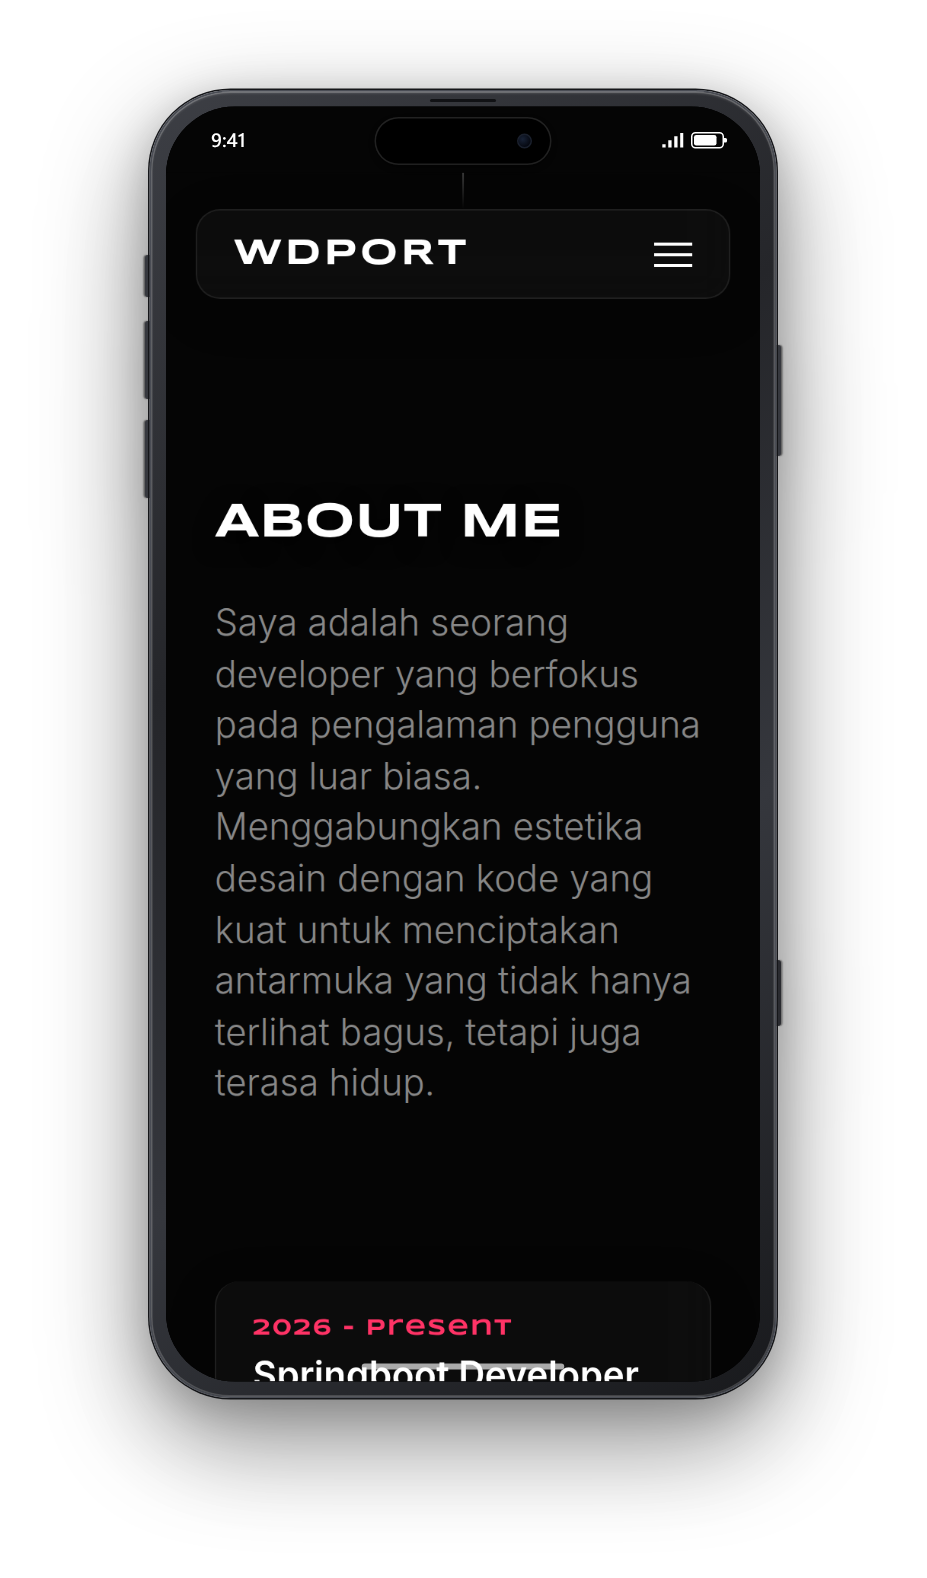
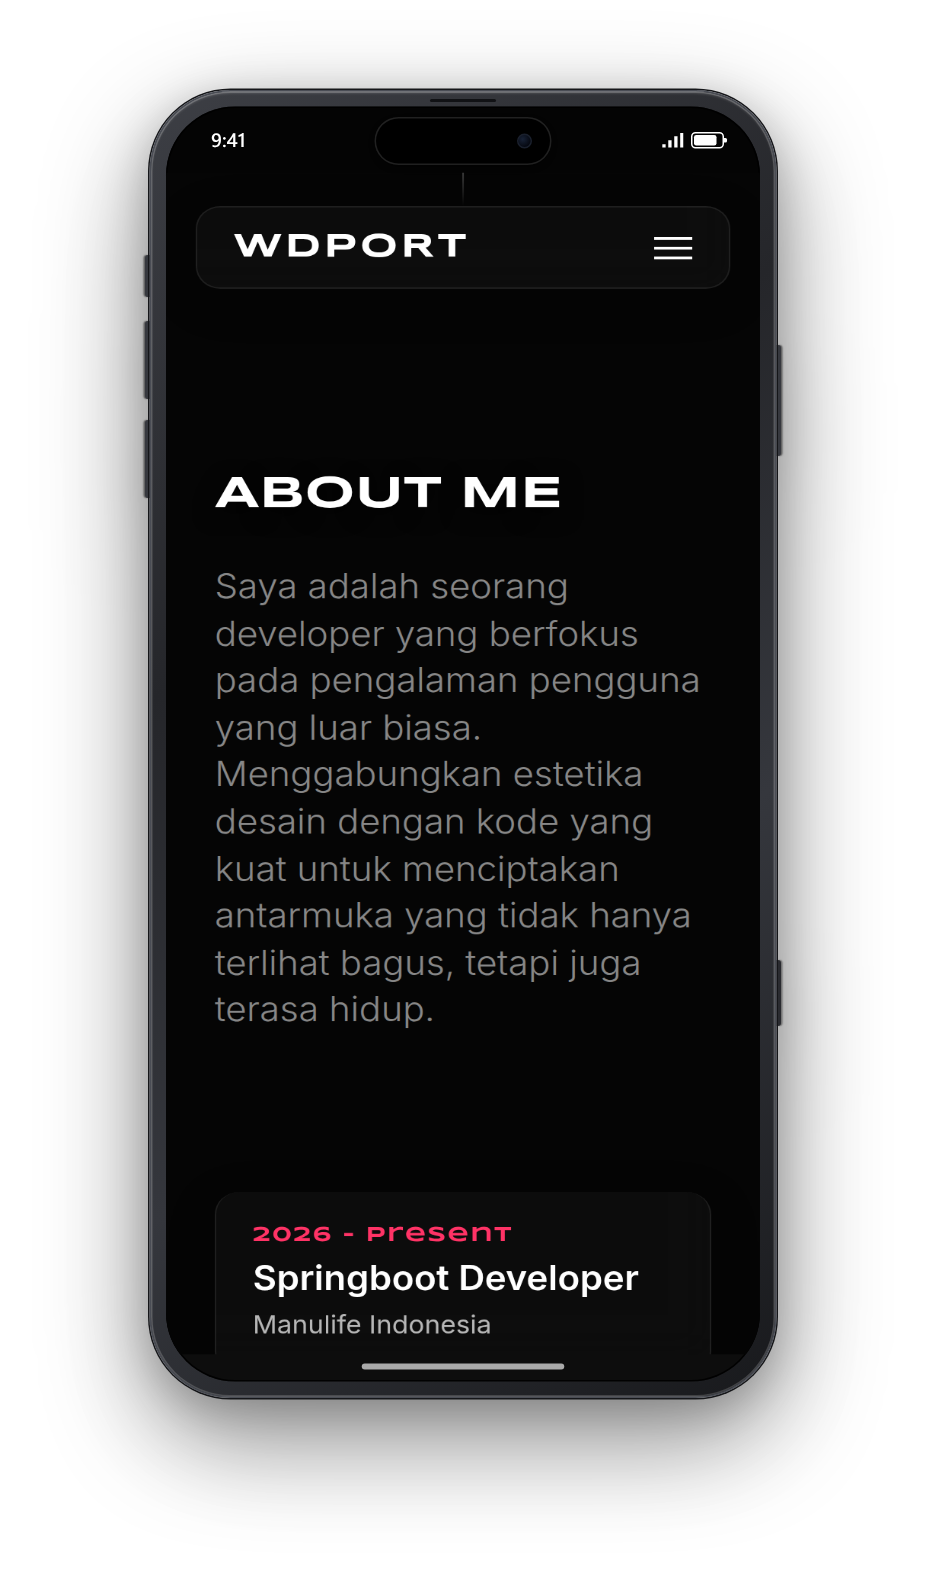
docs: strip QA automation section and elevate mobile mockups with safe area padding

diff --git a/README.md b/README.md
@@ -94,33 +94,6 @@ Open [http://localhost:8000](http://localhost:8000) in your web browser.
 
 ---
 
-## Testing & QA Automation
-
-Automated testing and QA verification are powered by the system's `qa-toolkit`:
-
-### 1. Playwright Test Suite
-End-to-end smoke verification covering 3D canvas viewport, hero brand typography, and dynamic `#works` project catalog rendering:
-
-```bash
-cd /home/widifirmaan/Projects/qa-toolkit
-npx playwright test tests/playwright/portfolio.spec.js
-```
-
-### 2. Cypress E2E Verification
-Cross-browser regression testing on DOM structure and production stability:
-
-```bash
-cd /home/widifirmaan/Projects/qa-toolkit
-npx cypress run --spec cypress/e2e/portfolio.cy.js
-```
-
-### 3. QA Execution Summary
-- **Playwright**: 2 tests passed (Brand Hero Header & Projects Catalog `#works` DOM Mount)
-- **Cypress**: 2 specs passed (Homepage DOM Mount & Case Studies Verification)
-- **Status**: ✅ All automated tests verified and passing
-
----
-
 ## Author
 
 Made with ❤ by **Widi Firmansyah** / [widifirmaan.web.id](https://widifirmaan.web.id)
